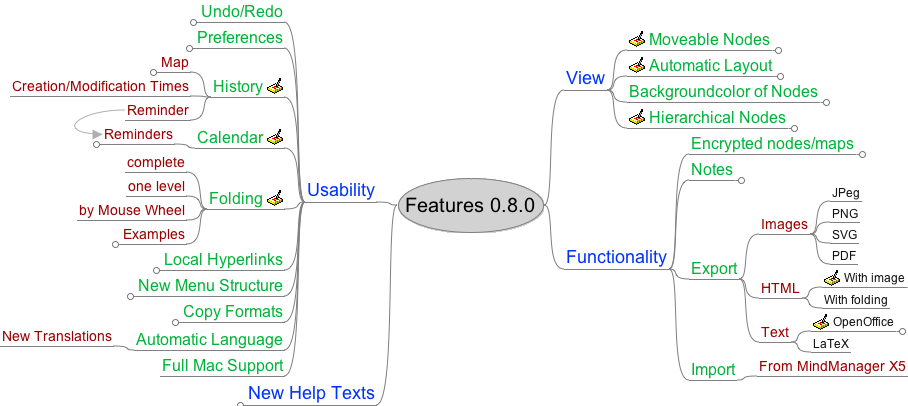
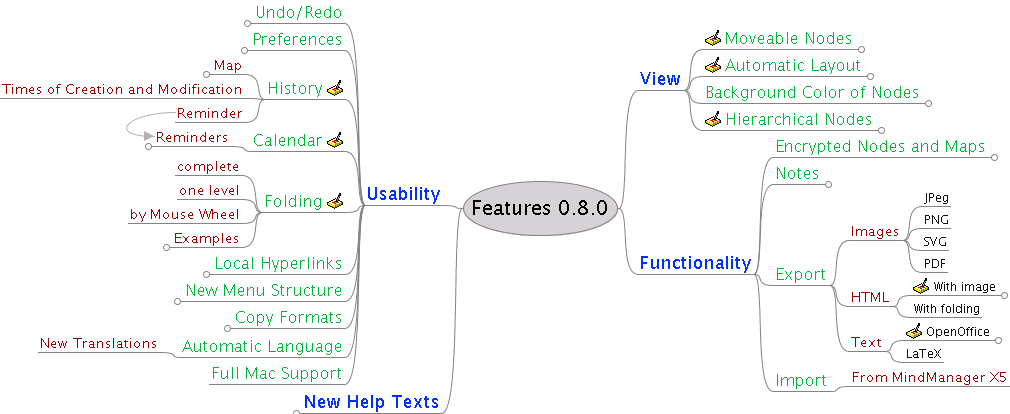
* installer file merged, prepared for 0.8.0 * feature map changed according to Daniel, export little improved.

Changed region(s): [[0.0, 0.0, 0.6167, 1.0], [0.6167, 0.0591, 1.0, 0.9458], [0.4934, 0.4138, 0.5551, 0.4433]]

diff --git a/admin/docs/features/0_8_0/Features 0.8.0.html b/admin/docs/features/0_8_0/Features 0.8.0.html
@@ -37,7 +37,7 @@
 <h1>Features 0.8.0</h1>
 <div style="width:96%;  padding:2%;  margin-bottom:10px;  border: 0px;  text-align:center;  vertical-align:center;">
 <img src="Features 0.8.0.html_files/image.png" style="margin-bottom:10px; 	border: 0px; 	text-align:center; 	vertical-align:center;" alt="Imagemap" usemap="#fm_imagemap"></div>
-<map id="fm_imagemap" name="fm_imagemap"><area shape="rect" href="#FMFreemind_Link_802962067FM" alt="Features 0.8.0" title="Features 0.8.0" coords="397,177,544,233" /><area shape="rect" href="#FM_FM" alt="View" title="View" coords="564,65,607,91" /><area shape="rect" href="#FMFreemind_Link_1562424257FM" alt="Moveable Nodes" title="Moveable Nodes" coords="627,28,781,54" /><area shape="rect" href="#FMFreemind_Link_927220117FM" alt="Automatic Layout" title="Automatic Layout" coords="627,54,783,80" /><area shape="rect" href="#FMFreemind_Link_1694174554FM" alt="Backgroundcolor of Nodes" title="Backgroundcolor of Nodes" coords="627,80,829,106" /><area shape="rect" href="#FMFreemind_Link_417474177FM" alt="Hierarchical Nodes" title="Hierarchical Nodes" coords="627,106,797,132" /><area shape="rect" href="#FMFreemind_Link_858284959FM" alt="Functionality" title="Functionality" coords="564,244,669,270" /><area shape="rect" href="#FMFreemind_Link_851601643FM" alt="Encrypted nodes/maps" title="Encrypted nodes/maps" coords="689,132,865,158" /><area shape="rect" href="#FMFreemind_Link_589433014FM" alt="Notes" title="Notes" coords="689,158,744,184" /><area shape="rect" href="#FMFreemind_Link_1280889197FM" alt="Export" title="Export" coords="689,257,739,280" /><area shape="rect" href="#FMFreemind_Link_1390278086FM" alt="Images" title="Images" coords="759,214,810,235" /><area shape="rect" href="#FMFreemind_Link_431578610FM" alt="JPeg" title="JPeg" coords="830,184,862,202" /><area shape="rect" href="#FMFreemind_Link_307663236FM" alt="PNG" title="PNG" coords="830,205,860,223" /><area shape="rect" href="#FMFreemind_Link_437330691FM" alt="SVG" title="SVG" coords="830,226,859,244" /><area shape="rect" href="#FMFreemind_Link_739057290FM" alt="PDF" title="PDF" coords="830,247,858,265" /><area shape="rect" href="#FMFreemind_Link_294697434FM" alt="HTML" title="HTML" coords="759,278,802,299" /><area shape="rect" href="#FMFreemind_Link_1575534654FM" alt="With image" title="With image" coords="822,268,916,291" /><area shape="rect" href="#FMFreemind_Link_146976804FM" alt="With folding" title="With folding" coords="822,291,890,309" /><area shape="rect" href="#FMFreemind_Link_516889310FM" alt="Text" title="Text" coords="759,322,791,343" /><area shape="rect" href="#FMFreemind_Link_538717911FM" alt="OpenOffice" title="OpenOffice" coords="811,312,905,335" /><area shape="rect" href="#FMFreemind_Link_368751936FM" alt="LaTeX" title="LaTeX" coords="811,335,851,353" /><area shape="rect" href="#FMFreemind_Link_498133437FM" alt="Import" title="Import" coords="689,358,737,381" /><area shape="rect" href="#FMFreemind_Link_315008406FM" alt="From MindManager X5" title="From MindManager X5" coords="757,356,908,377" /><area shape="rect" href="#FMFreemind_Link_1038794415FM" alt="Usability" title="Usability" coords="305,177,377,203" /><area shape="rect" href="#FMFreemind_Link_1143473078FM" alt="Undo/Redo" title="Undo/Redo" coords="199,0,294,26" /><area shape="rect" href="#FMFreemind_Link_1578104062FM" alt="Preferences" title="Preferences" coords="195,26,294,52" /><area shape="rect" href="#FMFreemind_Link_1241475477FM" alt="History" title="History" coords="211,75,285,98" /><area shape="rect" href="#FMFreemind_Link_1092736665FM" alt="Map" title="Map" coords="159,52,200,76" /><area shape="rect" href="#FMFreemind_Link_717180448FM" alt="Creation/Modification Times" title="Creation/Modification Times" coords="10,76,191,97" /><area shape="rect" href="#FMFreemind_Link_1948795635FM" alt="Reminder" title="Reminder" coords="125,100,191,121" /><area shape="rect" href="#FMFreemind_Link_654380877FM" alt="Calendar" title="Calendar" coords="195,126,285,149" /><area shape="rect" href="#FMFreemind_Link_597386352FM" alt="Reminders" title="Reminders" coords="102,124,184,148" /><area shape="rect" href="#FMFreemind_Link_1478492025FM" alt="Folding" title="Folding" coords="207,187,285,210" /><area shape="rect" href="#FMFreemind_Link_685017280FM" alt="complete" title="complete" coords="125,152,187,173" /><area shape="rect" href="#FMFreemind_Link_142429743FM" alt="one level" title="one level" coords="126,176,187,197" /><area shape="rect" href="#FMFreemind_Link_563779257FM" alt="by Mouse Wheel" title="by Mouse Wheel" coords="77,200,187,221" /><area shape="rect" href="#FMFreemind_Link_760292977FM" alt="Examples" title="Examples" coords="121,224,196,248" /><area shape="rect" href="#FMFreemind_Link_830996395FM" alt="Local Hyperlinks" title="Local Hyperlinks" coords="162,248,294,274" /><area shape="rect" href="#FMFreemind_Link_1939930792FM" alt="New Menu Structure" title="New Menu Structure" coords="136,274,294,300" /><area shape="rect" href="#FMFreemind_Link_1815835697FM" alt="Copy Formats" title="Copy Formats" coords="181,300,294,326" /><area shape="rect" href="#FMFreemind_Link_1109762998FM" alt="Automatic Language" title="Automatic Language" coords="134,328,285,351" /><area shape="rect" href="#FMFreemind_Link_1997347316FM" alt="New Translations" title="New Translations" coords="0,326,114,347" /><area shape="rect" href="#FMFreemind_Link_526172533FM" alt="Full Mac Support" title="Full Mac Support" coords="160,354,285,377" /><area shape="rect" href="#FMFreemind_Link_285885603FM" alt="New Help Texts" title="New Help Texts" coords="246,380,386,409" /></map>
+<map id="fm_imagemap" name="fm_imagemap"><area shape="rect" href="#FMFreemind_Link_802962067FM" alt="Features 0.8.0" title="Features 0.8.0" coords="462,180,618,236" /><area shape="rect" href="#FM_FM" alt="View" title="View" coords="638,65,683,91" /><area shape="rect" href="#FMFreemind_Link_1562424257FM" alt="Moveable Nodes" title="Moveable Nodes" coords="703,26,864,53" /><area shape="rect" href="#FMFreemind_Link_927220117FM" alt="Automatic Layout" title="Automatic Layout" coords="703,53,873,80" /><area shape="rect" href="#FMFreemind_Link_1694174554FM" alt="Background Color of Nodes" title="Background Color of Nodes" coords="703,80,931,107" /><area shape="rect" href="#FMFreemind_Link_417474177FM" alt="Hierarchical Nodes" title="Hierarchical Nodes" coords="703,107,884,134" /><area shape="rect" href="#FMFreemind_Link_858284959FM" alt="Functionality" title="Functionality" coords="638,249,753,275" /><area shape="rect" href="#FMFreemind_Link_851601643FM" alt="Encrypted Nodes and Maps" title="Encrypted Nodes and Maps" coords="773,134,997,161" /><area shape="rect" href="#FMFreemind_Link_589433014FM" alt="Notes" title="Notes" coords="773,161,831,188" /><area shape="rect" href="#FMFreemind_Link_1280889197FM" alt="Export" title="Export" coords="773,262,829,286" /><area shape="rect" href="#FMFreemind_Link_1390278086FM" alt="Images" title="Images" coords="849,220,902,241" /><area shape="rect" href="#FMFreemind_Link_431578610FM" alt="JPeg" title="JPeg" coords="922,188,951,207" /><area shape="rect" href="#FMFreemind_Link_307663236FM" alt="PNG" title="PNG" coords="922,210,951,229" /><area shape="rect" href="#FMFreemind_Link_437330691FM" alt="SVG" title="SVG" coords="922,232,949,251" /><area shape="rect" href="#FMFreemind_Link_739057290FM" alt="PDF" title="PDF" coords="922,254,948,273" /><area shape="rect" href="#FMFreemind_Link_294697434FM" alt="HTML" title="HTML" coords="849,286,891,307" /><area shape="rect" href="#FMFreemind_Link_1575534654FM" alt="With image" title="With image" coords="911,276,1007,299" /><area shape="rect" href="#FMFreemind_Link_146976804FM" alt="With folding" title="With folding" coords="911,299,982,318" /><area shape="rect" href="#FMFreemind_Link_516889310FM" alt="Text" title="Text" coords="849,331,884,352" /><area shape="rect" href="#FMFreemind_Link_538717911FM" alt="OpenOffice" title="OpenOffice" coords="904,321,1001,344" /><area shape="rect" href="#FMFreemind_Link_368751936FM" alt="LaTeX" title="LaTeX" coords="904,344,944,363" /><area shape="rect" href="#FMFreemind_Link_498133437FM" alt="Import" title="Import" coords="773,368,830,392" /><area shape="rect" href="#FMFreemind_Link_315008406FM" alt="From MindManager X5" title="From MindManager X5" coords="850,366,1010,387" /><area shape="rect" href="#FMFreemind_Link_1038794415FM" alt="Usability" title="Usability" coords="365,180,442,206" /><area shape="rect" href="#FMFreemind_Link_1143473078FM" alt="Undo/Redo" title="Undo/Redo" coords="253,0,354,27" /><area shape="rect" href="#FMFreemind_Link_1578104062FM" alt="Preferences" title="Preferences" coords="250,27,354,54" /><area shape="rect" href="#FMFreemind_Link_1241475477FM" alt="History" title="History" coords="265,76,345,100" /><area shape="rect" href="#FMFreemind_Link_1092736665FM" alt="Map" title="Map" coords="212,54,254,78" /><area shape="rect" href="#FMFreemind_Link_717180448FM" alt="Times of Creation and Modification" title="Times of Creation and Modification" coords="0,78,245,99" /><area shape="rect" href="#FMFreemind_Link_1948795635FM" alt="Reminder" title="Reminder" coords="175,102,245,123" /><area shape="rect" href="#FMFreemind_Link_654380877FM" alt="Calendar" title="Calendar" coords="251,128,345,152" /><area shape="rect" href="#FMFreemind_Link_597386352FM" alt="Reminders" title="Reminders" coords="154,126,240,150" /><area shape="rect" href="#FMFreemind_Link_1478492025FM" alt="Folding" title="Folding" coords="262,189,345,213" /><area shape="rect" href="#FMFreemind_Link_685017280FM" alt="complete" title="complete" coords="175,155,242,176" /><area shape="rect" href="#FMFreemind_Link_142429743FM" alt="one level" title="one level" coords="177,179,242,200" /><area shape="rect" href="#FMFreemind_Link_563779257FM" alt="by Mouse Wheel" title="by Mouse Wheel" coords="128,203,242,224" /><area shape="rect" href="#FMFreemind_Link_760292977FM" alt="Examples" title="Examples" coords="172,227,251,251" /><area shape="rect" href="#FMFreemind_Link_830996395FM" alt="Local Hyperlinks" title="Local Hyperlinks" coords="212,251,354,278" /><area shape="rect" href="#FMFreemind_Link_1939930792FM" alt="New Menu Structure" title="New Menu Structure" coords="183,278,354,305" /><area shape="rect" href="#FMFreemind_Link_1815835697FM" alt="Copy Formats" title="Copy Formats" coords="233,305,354,332" /><area shape="rect" href="#FMFreemind_Link_1109762998FM" alt="Automatic Language" title="Automatic Language" coords="180,334,345,358" /><area shape="rect" href="#FMFreemind_Link_1997347316FM" alt="New Translations" title="New Translations" coords="38,332,160,353" /><area shape="rect" href="#FMFreemind_Link_526172533FM" alt="Full Mac Support" title="Full Mac Support" coords="209,361,345,385" /><area shape="rect" href="#FMFreemind_Link_285885603FM" alt="New Help Texts" title="New Help Texts" coords="302,388,451,417" /></map>
 
 
 <div class="node">
@@ -47,14 +47,15 @@
 <div class="node">
 <img src="Features 0.8.0.html_files/hide.png" class="hideshow" alt="hide" onClick="toggle(&quot;N10021&quot;)" id="imgN10021"><a id="FMFreemind_Link_1562424257FM"></a>Moveable Nodes<br>
 <p class="notes">Approaching the inner side (i.e. the side that is closer to the root node) of a node you'll notice that the mouse cursor changes and that a small ellipsis appears. 
-In this area you can simply drag and drop the node pressing the (left) mouse button.
+In this area you can simply drag and move the node pressing the (left) mouse button.
 
 Moreover, if you press the control key simultaneously, all nodes on the same level get a bigger or smaller spacing. 
 In other words, the siblings of the moved nodes get more or less space in between. Just try it out.
 </p>
 <div class="content" id="N10021">
 <div class="node">
-<img src="Features 0.8.0.html_files/leaf.png" class="hideshow" alt="leaf"><a id="FMFreemind_Link_27697277FM"></a><img class="images" src="bild12.png"></div>
+<img src="Features 0.8.0.html_files/leaf.png" class="hideshow" alt="leaf"><a id="FMFreemind_Link_27697277FM"></a><a href="bild12.png"><img class="images" src="bild12.png"></a>
+</div>
 </div>
 </div>
 <div class="node">
@@ -66,13 +67,15 @@ Here, a fixed set of colors and font sizes is used to give a consistent and usef
 For future versions it is planned that you can configure the colors and sizes.</p>
 <div class="content" id="N10041">
 <div class="node">
-<img src="Features 0.8.0.html_files/leaf.png" class="hideshow" alt="leaf"><a id="FMFreemind_Link_1686887711FM"></a><img class="images" src="bild13.png"></div>
+<img src="Features 0.8.0.html_files/leaf.png" class="hideshow" alt="leaf"><a id="FMFreemind_Link_1686887711FM"></a><a href="bild13.png"><img class="images" src="bild13.png"></a>
+</div>
 </div>
 </div>
 <div class="node">
-<img src="Features 0.8.0.html_files/hide.png" class="hideshow" alt="hide" onClick="toggle(&quot;N10061&quot;)" id="imgN10061"><a id="FMFreemind_Link_1694174554FM"></a>Backgroundcolor of Nodes<div class="content" id="N10061">
+<img src="Features 0.8.0.html_files/hide.png" class="hideshow" alt="hide" onClick="toggle(&quot;N10061&quot;)" id="imgN10061"><a id="FMFreemind_Link_1694174554FM"></a>Background Color of Nodes<div class="content" id="N10061">
 <div class="node">
-<img src="Features 0.8.0.html_files/leaf.png" class="hideshow" alt="leaf"><a id="FMFreemind_Link_206910105FM"></a><img class="images" src="bild14.png"></div>
+<img src="Features 0.8.0.html_files/leaf.png" class="hideshow" alt="leaf"><a id="FMFreemind_Link_206910105FM"></a><a href="bild14.png"><img class="images" src="bild14.png"></a>
+</div>
 </div>
 </div>
 <div class="node">
@@ -86,7 +89,8 @@ Using the hierarchical icons, all parent nodes to a node with an icon inherit th
 Now, it is easy to see, whether or not a folded node contains children with the icons I'm interested in.</p>
 <div class="content" id="N1007A">
 <div class="node">
-<img src="Features 0.8.0.html_files/leaf.png" class="hideshow" alt="leaf"><a id="FMFreemind_Link_750143605FM"></a><img class="images" src="bild15.png"></div>
+<img src="Features 0.8.0.html_files/leaf.png" class="hideshow" alt="leaf"><a id="FMFreemind_Link_750143605FM"></a><a href="bild15.png"><img class="images" src="bild15.png"></a>
+</div>
 </div>
 </div>
 </div>
@@ -94,15 +98,17 @@ Now, it is easy to see, whether or not a folded node contains children with the 
 <div class="node">
 <img src="Features 0.8.0.html_files/hide.png" class="hideshow" alt="hide" onClick="toggle(&quot;N1009B&quot;)" id="imgN1009B"><a id="FMFreemind_Link_858284959FM"></a>Functionality<div class="content" id="N1009B">
 <div class="node">
-<img src="Features 0.8.0.html_files/hide.png" class="hideshow" alt="hide" onClick="toggle(&quot;N100A7&quot;)" id="imgN100A7"><a id="FMFreemind_Link_851601643FM"></a>Encrypted nodes/maps<div class="content" id="N100A7">
+<img src="Features 0.8.0.html_files/hide.png" class="hideshow" alt="hide" onClick="toggle(&quot;N100A7&quot;)" id="imgN100A7"><a id="FMFreemind_Link_851601643FM"></a>Encrypted Nodes and Maps<div class="content" id="N100A7">
 <div class="node">
-<img src="Features 0.8.0.html_files/leaf.png" class="hideshow" alt="leaf"><a id="FMFreemind_Link_1268868774FM"></a><img class="images" src="bild16.png"></div>
+<img src="Features 0.8.0.html_files/leaf.png" class="hideshow" alt="leaf"><a id="FMFreemind_Link_1268868774FM"></a><a href="bild16.png"><img class="images" src="bild16.png"></a>
+</div>
 </div>
 </div>
 <div class="node">
 <img src="Features 0.8.0.html_files/hide.png" class="hideshow" alt="hide" onClick="toggle(&quot;N100C0&quot;)" id="imgN100C0"><a id="FMFreemind_Link_589433014FM"></a>Notes<div class="content" id="N100C0">
 <div class="node">
-<img src="Features 0.8.0.html_files/leaf.png" class="hideshow" alt="leaf"><a id="FMFreemind_Link_1207432177FM"></a><img class="images" src="bild17.png"></div>
+<img src="Features 0.8.0.html_files/leaf.png" class="hideshow" alt="leaf"><a id="FMFreemind_Link_1207432177FM"></a><a href="bild17.png"><img class="images" src="bild17.png"></a>
+</div>
 </div>
 </div>
 <div class="node">
@@ -127,7 +133,8 @@ Now, it is easy to see, whether or not a folded node contains children with the 
 is outlined. To simplify the navigation, you can click on the nodes shown in the image and your browser jumps to the corresponding text location.</p>
 <div class="content" id="N10117">
 <div class="node">
-<img src="Features 0.8.0.html_files/leaf.png" class="hideshow" alt="leaf"><a id="FMFreemind_Link_246564524FM"></a><img class="images" src="bild18.png"></div>
+<img src="Features 0.8.0.html_files/leaf.png" class="hideshow" alt="leaf"><a id="FMFreemind_Link_246564524FM"></a><a href="bild18.png"><img class="images" src="bild18.png"></a>
+</div>
 </div>
 </div>
 <div class="node">
@@ -144,7 +151,8 @@ The Open Office Writer export is designed to work with version 1.4. If you are u
 to select the older version. OpenOffice repairs your document for you.</p>
 <div class="content" id="N10141">
 <div class="node">
-<img src="Features 0.8.0.html_files/leaf.png" class="hideshow" alt="leaf"><a id="FMFreemind_Link_673941752FM"></a><img class="images" src="bild19.png"></div>
+<img src="Features 0.8.0.html_files/leaf.png" class="hideshow" alt="leaf"><a id="FMFreemind_Link_673941752FM"></a><a href="bild19.png"><img class="images" src="bild19.png"></a>
+</div>
 </div>
 </div>
 <div class="node">
@@ -166,13 +174,15 @@ to select the older version. OpenOffice repairs your document for you.</p>
 <div class="node">
 <img src="Features 0.8.0.html_files/hide.png" class="hideshow" alt="hide" onClick="toggle(&quot;N10186&quot;)" id="imgN10186"><a id="FMFreemind_Link_1143473078FM"></a>Undo/Redo<div class="content" id="N10186">
 <div class="node">
-<img src="Features 0.8.0.html_files/leaf.png" class="hideshow" alt="leaf"><a id="FMFreemind_Link_385960606FM"></a><img class="images" src="bild1.png"></div>
+<img src="Features 0.8.0.html_files/leaf.png" class="hideshow" alt="leaf"><a id="FMFreemind_Link_385960606FM"></a><a href="bild1.png"><img class="images" src="bild1.png"></a>
+</div>
 </div>
 </div>
 <div class="node">
 <img src="Features 0.8.0.html_files/hide.png" class="hideshow" alt="hide" onClick="toggle(&quot;N1019F&quot;)" id="imgN1019F"><a id="FMFreemind_Link_1578104062FM"></a>Preferences<div class="content" id="N1019F">
 <div class="node">
-<img src="Features 0.8.0.html_files/leaf.png" class="hideshow" alt="leaf"><a id="FMFreemind_Link_1742910940FM"></a><img class="images" src="bild2.png"></div>
+<img src="Features 0.8.0.html_files/leaf.png" class="hideshow" alt="leaf"><a id="FMFreemind_Link_1742910940FM"></a><a href="bild2.png"><img class="images" src="bild2.png"></a>
+</div>
 </div>
 </div>
 <div class="node">
@@ -189,11 +199,12 @@ these nodes selected.</p>
 <div class="node">
 <img src="Features 0.8.0.html_files/hide.png" class="hideshow" alt="hide" onClick="toggle(&quot;N101CA&quot;)" id="imgN101CA"><a id="FMFreemind_Link_1092736665FM"></a>Map<div class="content" id="N101CA">
 <div class="node">
-<img src="Features 0.8.0.html_files/leaf.png" class="hideshow" alt="leaf"><a id="FMFreemind_Link_510395983FM"></a><img class="images" src="bild3.png"></div>
+<img src="Features 0.8.0.html_files/leaf.png" class="hideshow" alt="leaf"><a id="FMFreemind_Link_510395983FM"></a><a href="bild3.png"><img class="images" src="bild3.png"></a>
+</div>
 </div>
 </div>
 <div class="node">
-<img src="Features 0.8.0.html_files/leaf.png" class="hideshow" alt="leaf"><a id="FMFreemind_Link_717180448FM"></a>Creation/Modification Times</div>
+<img src="Features 0.8.0.html_files/leaf.png" class="hideshow" alt="leaf"><a id="FMFreemind_Link_717180448FM"></a>Times of Creation and Modification</div>
 <div class="node">
 <img src="Features 0.8.0.html_files/leaf.png" class="hideshow" alt="leaf"><a id="FMFreemind_Link_1948795635FM"></a>Reminder</div>
 </div>
@@ -208,7 +219,8 @@ reached and inform you using blinking icons.</p>
 <img src="Features 0.8.0.html_files/hide.png" class="hideshow" alt="hide" onClick="toggle(&quot;N10209&quot;)" id="imgN10209"><a id="FMFreemind_Link_597386352FM"></a>Reminders<a href="#FMFreemind_Link_1948795635FM"><img src="Features 0.8.0.html_files/ilink.png" class="ilink" alt="Internal Link"></a>
 <div class="content" id="N10209">
 <div class="node">
-<img src="Features 0.8.0.html_files/leaf.png" class="hideshow" alt="leaf"><a id="FMFreemind_Link_1689642681FM"></a><img class="images" src="bild4.png"></div>
+<img src="Features 0.8.0.html_files/leaf.png" class="hideshow" alt="leaf"><a id="FMFreemind_Link_1689642681FM"></a><a href="bild4.png"><img class="images" src="bild4.png"></a>
+</div>
 </div>
 </div>
 </div>
@@ -232,9 +244,11 @@ and the functions are applied to the whole map.</p>
 <div class="node">
 <img src="Features 0.8.0.html_files/hide.png" class="hideshow" alt="hide" onClick="toggle(&quot;N1025C&quot;)" id="imgN1025C"><a id="FMFreemind_Link_760292977FM"></a>Examples<div class="content" id="N1025C">
 <div class="node">
-<img src="Features 0.8.0.html_files/leaf.png" class="hideshow" alt="leaf"><a id="FMFreemind_Link_243909738FM"></a><img class="images" src="bild5.png"></div>
+<img src="Features 0.8.0.html_files/leaf.png" class="hideshow" alt="leaf"><a id="FMFreemind_Link_243909738FM"></a><a href="bild5.png"><img class="images" src="bild5.png"></a>
+</div>
 <div class="node">
-<img src="Features 0.8.0.html_files/leaf.png" class="hideshow" alt="leaf"><a id="FMFreemind_Link_1233444274FM"></a><img class="images" src="bild6.png"></div>
+<img src="Features 0.8.0.html_files/leaf.png" class="hideshow" alt="leaf"><a id="FMFreemind_Link_1233444274FM"></a><a href="bild6.png"><img class="images" src="bild6.png"></a>
+</div>
 </div>
 </div>
 </div>
@@ -242,19 +256,22 @@ and the functions are applied to the whole map.</p>
 <div class="node">
 <img src="Features 0.8.0.html_files/hide.png" class="hideshow" alt="hide" onClick="toggle(&quot;N10278&quot;)" id="imgN10278"><a id="FMFreemind_Link_830996395FM"></a>Local Hyperlinks<div class="content" id="N10278">
 <div class="node">
-<img src="Features 0.8.0.html_files/leaf.png" class="hideshow" alt="leaf"><a id="FMFreemind_Link_1303187566FM"></a><img class="images" src="bild7.png"></div>
+<img src="Features 0.8.0.html_files/leaf.png" class="hideshow" alt="leaf"><a id="FMFreemind_Link_1303187566FM"></a><a href="bild7.png"><img class="images" src="bild7.png"></a>
+</div>
 </div>
 </div>
 <div class="node">
 <img src="Features 0.8.0.html_files/hide.png" class="hideshow" alt="hide" onClick="toggle(&quot;N10291&quot;)" id="imgN10291"><a id="FMFreemind_Link_1939930792FM"></a>New Menu Structure<div class="content" id="N10291">
 <div class="node">
-<img src="Features 0.8.0.html_files/leaf.png" class="hideshow" alt="leaf"><a id="FMFreemind_Link_725678377FM"></a><img class="images" src="bild8.png"></div>
+<img src="Features 0.8.0.html_files/leaf.png" class="hideshow" alt="leaf"><a id="FMFreemind_Link_725678377FM"></a><a href="bild8.png"><img class="images" src="bild8.png"></a>
+</div>
 </div>
 </div>
 <div class="node">
 <img src="Features 0.8.0.html_files/hide.png" class="hideshow" alt="hide" onClick="toggle(&quot;N102AA&quot;)" id="imgN102AA"><a id="FMFreemind_Link_1815835697FM"></a>Copy Formats<div class="content" id="N102AA">
 <div class="node">
-<img src="Features 0.8.0.html_files/leaf.png" class="hideshow" alt="leaf"><a id="FMFreemind_Link_830765507FM"></a><img class="images" src="bild9.png"></div>
+<img src="Features 0.8.0.html_files/leaf.png" class="hideshow" alt="leaf"><a id="FMFreemind_Link_830765507FM"></a><a href="bild9.png"><img class="images" src="bild9.png"></a>
+</div>
 </div>
 </div>
 <div class="node">
@@ -270,7 +287,8 @@ and the functions are applied to the whole map.</p>
 <div class="node">
 <img src="Features 0.8.0.html_files/hide.png" class="hideshow" alt="hide" onClick="toggle(&quot;N102E8&quot;)" id="imgN102E8"><a id="FMFreemind_Link_285885603FM"></a>New Help Texts<div class="content" id="N102E8">
 <div class="node">
-<img src="Features 0.8.0.html_files/leaf.png" class="hideshow" alt="leaf"><a id="FMFreemind_Link_495317244FM"></a><img class="images" src="bild11.png"></div>
+<img src="Features 0.8.0.html_files/leaf.png" class="hideshow" alt="leaf"><a id="FMFreemind_Link_495317244FM"></a><a href="bild11.png"><img class="images" src="bild11.png"></a>
+</div>
 </div>
 </div>
 </div>

diff --git a/admin/docs/features/0_8_0/Features 0.8.0.html_files/freemind2html.css b/admin/docs/features/0_8_0/Features 0.8.0.html_files/freemind2html.css
@@ -33,7 +33,7 @@ img.ilink {
 
 /* for notes and image export, fc, 18.7.2005. */
 .images {
- width:75%;
+ width:50%;
 }
 
 .notes {

diff --git a/admin/docs/features/0_8_0/Features 0.8.0.mm b/admin/docs/features/0_8_0/Features 0.8.0.mm
@@ -1,14 +1,14 @@
-<map version="0.8.0 RC5">
+<map version="0.8.0">
 <!-- To view this file, download free mind mapping software FreeMind from http://freemind.sourceforge.net -->
 <node COLOR="#000000" CREATED="1120682078195" ID="Freemind_Link_802962067" MODIFIED="1120682106910" TEXT="Features 0.8.0">
 <font NAME="SansSerif" SIZE="20"/>
 <hook NAME="accessories/plugins/AutomaticLayout.properties"/>
 <node COLOR="#0033ff" CREATED="1120682111584" ID="_" MODIFIED="1120859328530" POSITION="right" TEXT="View">
 <font NAME="SansSerif" SIZE="18"/>
-<node COLOR="#00b439" CREATED="1120682135416" FOLDED="true" ID="Freemind_Link_1562424257" MODIFIED="1121447029922" TEXT="Moveable Nodes">
+<node COLOR="#00b439" CREATED="1120682135416" FOLDED="true" ID="Freemind_Link_1562424257" MODIFIED="1125341870140" TEXT="Moveable Nodes">
 <font NAME="SansSerif" SIZE="16"/>
 <hook NAME="accessories/plugins/NodeNote.properties">
-<text>Approaching the inner side (i.e. the side that is closer to the root node) of a node you&apos;ll notice that the mouse cursor changes and that a small ellipsis appears. &#xa;In this area you can simply drag and drop the node pressing the (left) mouse button.&#xa;&#xa;Moreover, if you press the control key simultaneously, all nodes on the same level get a bigger or smaller spacing. &#xa;In other words, the siblings of the moved nodes get more or less space in between. Just try it out.&#xa;</text>
+<text>Approaching the inner side (i.e. the side that is closer to the root node) of a node you&apos;ll notice that the mouse cursor changes and that a small ellipsis appears. &#xa;In this area you can simply drag and move the node pressing the (left) mouse button.&#xa;&#xa;Moreover, if you press the control key simultaneously, all nodes on the same level get a bigger or smaller spacing. &#xa;In other words, the siblings of the moved nodes get more or less space in between. Just try it out.&#xa;</text>
 </hook>
 <node COLOR="#990000" CREATED="1121445404844" ID="Freemind_Link_27697277" MODIFIED="1121445408412" TEXT="&lt;html&gt;&lt;img src=&quot;bild12.png&quot;&gt;">
 <font NAME="SansSerif" SIZE="14"/>
@@ -23,7 +23,7 @@
 <font NAME="SansSerif" SIZE="14"/>
 </node>
 </node>
-<node COLOR="#00b439" CREATED="1120682634406" FOLDED="true" ID="Freemind_Link_1694174554" MODIFIED="1120859349554" TEXT="Backgroundcolor of Nodes">
+<node COLOR="#00b439" CREATED="1120682634406" FOLDED="true" ID="Freemind_Link_1694174554" MODIFIED="1125341812153" TEXT="Background Color of Nodes">
 <font NAME="SansSerif" SIZE="16"/>
 <node COLOR="#990000" CREATED="1121445423274" ID="Freemind_Link_206910105" MODIFIED="1121445427056" TEXT="&lt;html&gt;&lt;img src=&quot;bild14.png&quot;&gt;">
 <font NAME="SansSerif" SIZE="14"/>
@@ -41,7 +41,7 @@
 </node>
 <node COLOR="#0033ff" CREATED="1120682411016" ID="Freemind_Link_858284959" MODIFIED="1120859280653" POSITION="right" TEXT="Functionality">
 <font NAME="SansSerif" SIZE="18"/>
-<node COLOR="#00b439" CREATED="1120682415766" FOLDED="true" ID="Freemind_Link_851601643" MODIFIED="1120859289254" TEXT="Encrypted nodes/maps">
+<node COLOR="#00b439" CREATED="1120682415766" FOLDED="true" ID="Freemind_Link_851601643" MODIFIED="1125341824536" TEXT="Encrypted Nodes and Maps">
 <font NAME="SansSerif" SIZE="16"/>
 <node COLOR="#990000" CREATED="1121445491803" ID="Freemind_Link_1268868774" MODIFIED="1121445495703" TEXT="&lt;html&gt;&lt;img src=&quot;bild16.png&quot;&gt;">
 <font NAME="SansSerif" SIZE="14"/>
@@ -113,7 +113,7 @@
 <font NAME="SansSerif" SIZE="14"/>
 <node COLOR="#111111" CREATED="1121445629548" ID="Freemind_Link_510395983" MODIFIED="1121445633580" TEXT="&lt;html&gt;&lt;img src=&quot;bild3.png&quot;&gt;"/>
 </node>
-<node COLOR="#990000" CREATED="1120682696102" ID="Freemind_Link_717180448" MODIFIED="1121446171456" TEXT="Creation/Modification Times">
+<node COLOR="#990000" CREATED="1120682696102" ID="Freemind_Link_717180448" MODIFIED="1125341843782" TEXT="Times of Creation and Modification">
 <font NAME="SansSerif" SIZE="14"/>
 </node>
 <node COLOR="#990000" CREATED="1121446174304" ID="Freemind_Link_1948795635" MODIFIED="1121446197371" TEXT="Reminder">
